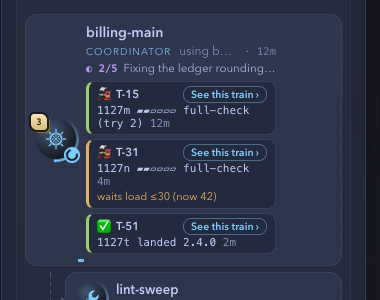
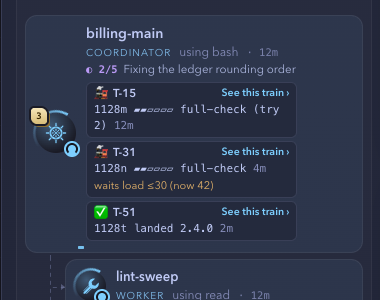
fix(gui): no card wears a one-sided border
The boss's rule (ui-design.md): a card or panel has one border on all
four sides, or none; a state shows through an icon, a badge, words in
its colour, or a tint, never a thicker or coloured side.

- Car cards: one hairline all round; the icon and the words carry the
  state (wait line gold, stale line amber, a returned or dropped car's
  line and reason red on a faint red tint). Tighter: the button floats
  top right as plain text and the head and the line share one line when
  they fit. Same rows, same 30-minute expiry.
- Ally unit, remote base's ended line, a run's live message, Storybook's
  notice: the stripe goes; the dot and tint, an amber tint in a faint
  amber hairline, a faint tint, the violet slip.
- Raven: the 4 px double rule on the top of every panel becomes the gold
  hairline all round; the dialog, tower card and question keep their
  state colour all round; the head band keeps Standard's gold hairline.
- tests/no-side-border.test.ts reads every GUI sheet and fails on a
  one-sided border, a border-width/-color/-style with unequal sides, or
  an inset shadow with an offset, unless the selector is a listed
  divider or control.
- docs/gui-car-card.png retaken from the demo build.

diff --git a/gui/style.css b/gui/style.css
@@ -1079,7 +1079,7 @@ html.paused *, html.paused *::before, html.paused *::after { animation-play-stat
 .base.remote .box-team { overflow-wrap: anywhere; } .base.remote .box-seen { color: var(--amber); white-space: normal; overflow-wrap: anywhere; }
 .base.remote[data-box="unreachable"] { opacity: 0.6; border-style: dashed; }
 .base.remote[data-box="ended"] > :not(header, .box-ended) { display: none; }
-.base.remote .box-ended { margin: 4px 0 0; padding: 8px 12px; border-left: 3px solid var(--amber); border-radius: 8px; background: color-mix(in srgb, var(--amber) 8%, transparent); font-size: 13px; overflow-wrap: anywhere; }
+.base.remote .box-ended { margin: 4px 0 0; padding: 8px 12px; border: 1px solid color-mix(in srgb, var(--amber) 30%, transparent); border-radius: 8px; background: color-mix(in srgb, var(--amber) 8%, transparent); font-size: 13px; overflow-wrap: anywhere; } /* the reason on an amber tint inside one hairline: no stripe */
 .base.remote > :is(.box-runs, .box-truns, .box-ally) { margin-top: 10px; border-top: 1px solid var(--line); padding-top: 2px; }
 :where(.base.remote .box-runs, .base.remote .box-truns, .base.remote .box-ally) > summary { min-height: 32px; } /* :where, so a phone's 44 px below wins whatever the order */
 .base.remote :is(.box-runs, .box-truns, .box-ally) > summary { display: flex; align-items: center; gap: 8px; cursor: pointer; list-style: none; font-size: 12px; color: var(--dim); }
@@ -1097,7 +1097,7 @@ html.paused *, html.paused *::before, html.paused *::after { animation-play-stat
 .ally-tab span { color: var(--dim); flex: none; }
 /* An unattended device's units (gui/allyunits.ts): the state in words with how long ago the box said it, the monitors on one line, the last report folded to its first line, and a crash's notice behind a fold. The state's colour is --c. */
 .ally-units { list-style: none; margin: 6px 0 0; padding: 0; display: grid; grid-template-columns: minmax(0, 1fr); gap: 8px; } .ally-units:empty { display: none; }
-.ally-unit { --c: var(--dim); display: grid; grid-template-columns: minmax(0, 1fr); gap: 6px; padding: 10px 12px; border: 1px solid var(--line); border-left: 3px solid var(--c); border-radius: 12px; background: color-mix(in srgb, var(--c) 7%, transparent); font-size: 13px; }
+.ally-unit { --c: var(--dim); display: grid; grid-template-columns: minmax(0, 1fr); gap: 6px; padding: 10px 12px; border: 1px solid var(--line); border-radius: 12px; background: color-mix(in srgb, var(--c) 7%, transparent); font-size: 13px; } /* the state is the dot, the word in --c and the tint: one hairline all round, no stripe (tests/no-side-border.test.ts) */
 .ally-unit [hidden] { display: none; }
 .ally-unit[data-tone="working"] { --c: var(--accent); } .ally-unit[data-tone="waiting"] { --c: var(--amber); } .ally-unit[data-tone="crashed"] { --c: var(--err); }
 .ally-unit.stale { opacity: 0.75; }
@@ -1483,15 +1483,19 @@ html:not([data-view="raven"])[data-calm] :is([data-slot], [data-slot] > i), html
    A step's state is a glyph and a colour, so colour is never the only sign (Geek turns the glyph into its text tag). The text in it is a model's: nothing here reads it as anything but text. */
 .pair-btn.yard-chip-btn { position: relative; z-index: 2; margin-top: 6px; text-transform: none; letter-spacing: 0.02em; color: var(--accent); border-color: color-mix(in srgb, var(--accent) 40%, transparent); }
 .yard-chip-btn[hidden], .yard-open[hidden], .yard-loose[hidden] { display: none; }
-/* A main's cars on its card (render.ts, docs/specs/2026-11-28-car-rows.md): one small card each, the ladder or the phase, the time, what it waits on, and the way to its train in the yard. */
-.cars { display: grid; gap: 4px; margin: 5px 0 0; padding: 0; list-style: none; } .cars[hidden] { display: none; }
-.car-card { position: relative; z-index: 2; display: grid; grid-template-columns: 1fr auto; gap: 1px 8px; padding: 4px 8px; border: 1px solid var(--line); border-left: 3px solid var(--accent); border-radius: 8px; background: color-mix(in srgb, var(--panel) 70%, transparent); font-size: 11.5px; }
-.car-card[data-tone="wait"] { border-left-color: var(--gold); } .car-card[data-tone="warn"] { border-left-color: var(--amber, var(--gold)); } .car-card[data-tone="bad"] { border-left-color: var(--err); } .car-card[data-tone="ok"] { border-left-color: var(--ok); }
-.car-head { grid-column: 1; grid-row: 1; display: flex; gap: 5px; align-items: baseline; min-width: 0; font-weight: 600; } .car-tickets { min-width: 0; overflow: hidden; white-space: nowrap; text-overflow: ellipsis; }
-.car-line { grid-column: 1 / -1; min-width: 0; overflow-wrap: anywhere; font: 11px var(--mono); } .car-time { color: var(--dim); }
-.car-wait { grid-column: 1 / -1; min-width: 0; overflow-wrap: anywhere; color: var(--gold); font-size: 11px; } .car-wait[hidden] { display: none; }
+/* A main's cars on its card (render.ts, docs/specs/2026-11-28-car-rows.md): one small card each, the ladder or the phase, the time, what it waits on, and the way to its train in the yard.
+   A card has one hairline all round (no stripe: ~/.pi/agent/rules/ui-design.md, tests/no-side-border.test.ts). Its state is its icon (✅ 🚂 🚉 ↩ ✖) and the colour of its words: a car that waits says so in gold, a stale one's line is amber,
+   a returned or dropped one's line and reason are red on a faint red tint. The button floats at the top right (it comes first in the markup) and the head and the line flow beside it as two unbroken pieces:
+   one line when they fit, the line under the head when they do not, so eight cars stay a short list. */
+.cars { display: grid; gap: 3px; margin: 5px 0 0; padding: 0; list-style: none; } .cars[hidden] { display: none; }
+.car-card { position: relative; z-index: 2; display: flow-root; padding: 2px 7px; border: 1px solid var(--line); border-radius: 6px; background: color-mix(in srgb, var(--panel) 70%, transparent); font-size: 11.5px; line-height: 1.5; }
+.car-card[data-tone="bad"] { background: color-mix(in srgb, var(--err) 8%, color-mix(in srgb, var(--panel) 70%, transparent)); }
+.car-head { display: inline-flex; gap: 5px; align-items: baseline; max-width: 100%; vertical-align: top; font-weight: 600; } .car-mark { flex: none; } .car-tickets { min-width: 0; overflow: hidden; white-space: nowrap; text-overflow: ellipsis; }
+.car-line { display: inline-block; max-width: 100%; vertical-align: top; overflow-wrap: anywhere; font: 11px/1.5 var(--mono); } .car-time { color: var(--dim); }
+.car-card[data-tone="warn"] .car-step { color: var(--amber, var(--gold)); } .car-card[data-tone="bad"] .car-step { color: var(--err-text, var(--err)); }
+.car-wait { display: block; min-width: 0; overflow-wrap: anywhere; color: var(--gold); font-size: 11px; } .car-wait[hidden] { display: none; }
 .car-card[data-tone="bad"] .car-wait { color: var(--err-text, var(--err)); }
-.car-see { grid-column: 2; grid-row: 1; align-self: center; padding: 0 7px; border: 1px solid color-mix(in srgb, var(--accent) 40%, transparent); border-radius: 8px; background: none; color: var(--accent); font: 600 10.5px var(--sans); cursor: pointer; white-space: nowrap; }
+.car-see { float: right; margin: 0 -4px 0 6px; padding: 0 4px; border: 0; border-radius: 6px; background: none; color: var(--accent); font: 600 10.5px/1.6 var(--sans); cursor: pointer; white-space: nowrap; } .car-see:hover { background: color-mix(in srgb, var(--accent) 12%, transparent); }
 .yard-row[data-focus] { outline: 2px solid var(--accent); outline-offset: 2px; }
 .yard-open { position: relative; z-index: 2; flex: none; margin-top: 4px; padding: 2px 9px; border: 1px solid color-mix(in srgb, var(--accent) 40%, transparent); border-radius: 8px; background: none; color: var(--accent); font: 600 12px var(--sans); cursor: pointer; }
 .yard-loose { --c: var(--accent); text-transform: none; letter-spacing: 0.02em; }
@@ -1578,7 +1582,7 @@ summary.yard-chip { display: inline-block; cursor: pointer; list-style: none; } 
 	.auto-back .auto-back-close { width: 100%; justify-content: center; }
 }
 /* Headless tower runs (docs/specs/2026-11-23-f-entry.md §2.8): the message a run writes now, after the log's last entry, and the dialogs its runs wait on, above the composer on this computer's page. */
-.tx.live { content-visibility: visible; border-left: 2px solid color-mix(in srgb, var(--accent) 50%, transparent); padding: 4px 0 4px 10px; } .tx.live .live-tag { color: var(--dim); font: 11px var(--mono); } .tx.live .live-text { margin: 2px 0 0; white-space: pre-wrap; overflow-wrap: anywhere; }
+.tx.live { content-visibility: visible; padding: 4px 10px; border-radius: 8px; background: color-mix(in srgb, var(--accent) 6%, transparent); } /* under way: its tag says so on a faint tint, no stripe */ .tx.live .live-tag { color: var(--dim); font: 11px var(--mono); } .tx.live .live-text { margin: 2px 0 0; white-space: pre-wrap; overflow-wrap: anywhere; }
 .run-dialogs { margin: 0 16px 8px; display: grid; gap: 8px; } .run-dialog { border: 1px solid var(--line); border-radius: 8px; padding: 8px 10px; background: var(--surface-1); } .run-dialog[data-approval] { border-color: color-mix(in srgb, var(--gold) 60%, var(--line)); }
 .run-dialog header { display: flex; gap: 8px; align-items: baseline; } .run-dialog-tag { color: var(--gold); font: 11px var(--mono); text-transform: uppercase; } .run-dialog-text { margin: 6px 0; white-space: pre-wrap; overflow-wrap: anywhere; max-height: 16em; overflow: auto; font: 12px var(--mono); }
 .run-dialog-acts { display: flex; flex-wrap: wrap; gap: 6px; align-items: center; } .run-dialog-input { flex: 1 1 12em; min-width: 0; } .run-dialog-note { margin: 0; color: var(--dim); font-size: 12px; } .run-dialog-note:empty { display: none; }

diff --git a/tests/no-side-border.test.ts b/tests/no-side-border.test.ts
@@ -1,0 +1,107 @@
+import assert from "node:assert/strict";
+import { readdirSync, readFileSync } from "node:fs";
+import { join, relative } from "node:path";
+import { test } from "node:test";
+import { fileURLToPath } from "node:url";
+import { declarations, scopedRulesOf, split } from "./css-rules.ts";
+
+// No card or panel of the page wears a stripe (boss, 2026-11-28, on the car cards: 「這居然是 single border card，我說過我超討厭這個設計」; his rule in ~/.pi/agent/rules/ui-design.md):
+// a card or panel has one border on all four sides, or none, and a state, a kind, or an emphasis shows through a badge, an icon, a heading, or a tint, never through a thicker or coloured border on one side.
+// Every sheet of the GUI (gui/*.css and each theme's) is read: a declaration that draws one side (border-left, border-top-color, border-inline-start, border-bottom-width, …), a border-width, -color or
+// -style whose sides differ, and an inset box-shadow with an offset (a stripe painted inside the box) fail, unless the selector is a divider or a control listed below with why it is not a card.
+
+const root = fileURLToPath(new URL("..", import.meta.url));
+const gui = join(root, "gui");
+const sheets = (readdirSync(gui, { recursive: true }) as string[]).filter((f) => f.endsWith(".css") && !f.split(/[\\/]/).includes("paraglide")).map((f) => join(gui, f)).sort();
+
+/** The selectors that may draw one side, each with why it is not a card. Keyed by the sheet (under gui/) and the selector part as css-rules.ts reads it (whitespace collapsed). */
+const ALLOWED: Record<string, string> = {
+	// Dividers: a hairline between two parts of one card, a column, a list, or a bar, not the edge of a card.
+	"style.css .devices": "the hairline above the device list inside the pairing panel",
+	"style.css .lan hr": "a rule between two parts of the Wi-Fi panel",
+	"style.css .todos-all": "the hairline above the folded checklist inside the todo box",
+	"style.css .picker-places": "the column divider between the places and the folders of the picker (a row divider on a phone)",
+	"style.css .pcol": "the divider between two folder columns of the picker",
+	"style.css .tower-notices .tnote + .tnote": "the hairline between two notes in a tower's list",
+	"style.css .tl-lanes": "the dashed time axis of the timeline",
+	"style.css .composer": "the hairline between the log and the composer",
+	"style.css .comms-in > .chat-root": "the hairline between the log and the composer inside the comms panel",
+	"style.css .drawer": "the inner edge of the drawer, flush with the screen on its other three sides",
+	"style.css .drawer-foot": "the hairline above the drawer's foot",
+	"style.css .base.remote > :is(.box-runs, .box-truns, .box-ally)": "the hairline above a remote base's folds, inside the base",
+	"style.css .ally-unit details": "the hairline above a unit's folded report, inside the unit",
+	"style.css .link-roster tr": "the row divider of the roster table on a phone",
+	"style.css .tx.conv-rule > div": "the rule that marks a new conversation in the log, a line with words",
+	"style.css .supply-barracks": "the column divider between the supply cells and the barracks",
+	"style.css .ask-full": "the dashed hairline above a question's full text, inside the question",
+	"style.css .yard-bar": "the hairline under the yard's toolbar",
+	"style.css .auto-back .auto-back-rest": "the hairline above the folded rest of the Auto mode report",
+	"themes/raven/raven.css html[data-view=\"raven\"] .supply-tray .supply-cells": "the gold rule under the supply cells in the tray, a divider",
+	// Shapes drawn with a border, not a card's edge.
+	"style.css .subs > .unit > .card::after": "the arrowhead of a sub's link line, a CSS triangle",
+	"style.css [data-mark=\"working\"] > .badge::after": "the spinner's open arc",
+	"style.css .connect-ring": "the connecting spinner's bright arc",
+	// Controls drawn as a key or an underlined field.
+	"style.css .pad-key": "a key of the on-screen keypad: its deeper bottom edge is the key's travel, a button, not a card",
+	"style.css .pad-key:active:not(:disabled)": "the pressed key",
+	"themes/geek/geek.css [data-view=\"geek\"] .pad-key": "Geek's flat key",
+};
+/** Zen's fields and buttons are a line under the words, the way Zen draws every input; the target button's inset line is the divider between it and the field beside it. */
+const ZEN_FIELDS = [".zen-company .composer textarea", ".zen-head-hint", ".zen-head-box", ".palette-box", ".target-btn", ".target-find", "#zen :is(.zen-card .ask-own, .composer textarea, .tcard-input, .palette-box):focus-visible", "#zen .zen-head-box:focus-visible", "#zen .target-btn:focus-visible", "#zen .target-find:focus-visible", ".target-find:focus-visible", ".palette-box:focus", ":is(.zen-card .ask-own, .composer textarea, .tcard-input)"];
+const zenField = (sheet: string, part: string) => (sheet === "zen.css" ? ZEN_FIELDS.find((f) => part === `[data-view="zen"] ${f}`) : undefined);
+
+const NONE = /^(0|0px|none|0 none|none 0|initial|unset)( !important)?$/;
+const SIDE = /^border-(top|right|bottom|left|inline|block|inline-start|inline-end|block-start|block-end)(-(width|color|style))?$/;
+/** Why a declaration draws one side, or undefined. */
+function sided(prop: string, value: string): string | undefined {
+	if (SIDE.test(prop)) return NONE.test(value) ? undefined : "draws one side";
+	if (/^border-(width|color|style)$/.test(prop)) {
+		const sides = split(value.replace(/\s*!important$/, ""), " ").filter(Boolean);
+		return new Set(sides).size > 1 ? "sets the sides differently" : undefined;
+	}
+	if (prop === "box-shadow") {
+		for (const layer of split(value, ",")) {
+			const words = layer.trim().split(/\s+(?![^(]*\))/);
+			if (!words.includes("inset")) continue;
+			const lengths = words.filter((w) => /^-?[\d.]+(px|em|rem)?$/.test(w));
+			if (lengths.slice(0, 2).some((l) => Number.parseFloat(l) !== 0)) return "paints a stripe inside the box (an inset shadow with an offset)";
+		}
+	}
+	return undefined;
+}
+
+function offenders() {
+	const out: string[] = [];
+	const used = new Set<string>();
+	for (const file of sheets) {
+		const sheet = relative(gui, file).split("\\").join("/");
+		for (const rule of scopedRulesOf(readFileSync(file, "utf8"))) {
+			for (const [prop, value] of declarations(rule.body)) {
+				const why = sided(prop, value);
+				if (!why) continue;
+				for (const part of rule.parts) {
+					const key = `${sheet} ${part}`;
+					const zen = zenField(sheet, part);
+					if (key in ALLOWED || zen) { used.add(zen ? `zen ${zen}` : key); continue; }
+					out.push(`${key} { ${prop}: ${value} } ${why}`);
+				}
+			}
+		}
+	}
+	return { out, used };
+}
+
+test("no card or panel in any sheet of the GUI draws a border on one side: a uniform border, or none", () => {
+	assert.ok(sheets.some((f) => f.endsWith("style.css")) && sheets.some((f) => f.includes("storybook")), "the sheets are found");
+	assert.deepEqual(offenders().out, []);
+});
+
+test("each allowed selector still draws its one side: a divider that went away leaves the list", () => {
+	const { used } = offenders();
+	assert.deepEqual([...Object.keys(ALLOWED), ...ZEN_FIELDS.map((f) => `zen ${f}`)].filter((k) => !used.has(k)), []);
+});
+
+test("the reader catches a stripe in each of its forms, and passes a uniform border, a reset, and a ring", () => {
+	for (const [p, v] of [["border-left", "3px solid var(--c)"], ["border-inline-start", "2px solid red"], ["border-top-color", "var(--gold)"], ["border-bottom-width", "3px"], ["border-width", "1px 1px 1px 3px"], ["border-color", "var(--line) var(--line) var(--line) var(--err)"], ["box-shadow", "0 2px 4px #000, inset 3px 0 0 var(--accent)"]] as const) assert.ok(sided(p, v), `${p}: ${v}`);
+	for (const [p, v] of [["border", "1px solid var(--line)"], ["border-left", "0"], ["border-inline", "0"], ["border-width", "1px"], ["border-color", "var(--line)"], ["box-shadow", "inset 0 0 0 1px var(--c)"], ["box-shadow", "0 18px 40px #000, inset 0 0 0 999px rgb(0 0 0 / 4%)"]] as const) assert.equal(sided(p, v), undefined, `${p}: ${v}`);
+});

diff --git a/gui/themes/raven/raven.css b/gui/themes/raven/raven.css
@@ -63,8 +63,8 @@
 [data-view="raven"] [data-mark] { --c1: color-mix(in srgb, var(--c) 13%, transparent); }
 [data-view="raven"] ::selection { background: color-mix(in srgb, var(--accent) 38%, transparent); color: var(--text); }
 
-/* The head band on the map is the keep: a crenellated edge on a squared tower, the name in the serif. */
-[data-view="raven"] .head-node { border-top: 4px double color-mix(in srgb, var(--gold) 55%, var(--line)); background: linear-gradient(180deg, color-mix(in srgb, var(--gold) 9%, transparent), transparent 70%), var(--surface-0); }
+/* The head band on the map is the keep: a squared tower in Standard's gold hairline all round, a gold glow from the top, the name in the serif. */
+[data-view="raven"] .head-node { background: linear-gradient(180deg, color-mix(in srgb, var(--gold) 9%, transparent), transparent 70%), var(--surface-0); }
 [data-view="raven"] .head-node .head-name { font-family: var(--serif); font-size: 15px; letter-spacing: 0.06em; }
 /* The head page's backdrop (the castle above the mist, the crypt gate): fixed layers behind the page, each in the illustration's frame. The page's panels keep their translucent well, so the picture shows through and the text keeps its ground.
    The picture rests in the dark (boss, 2026-11-07: the shadows blacker, the picture lit only by the lightning): a near-black veil over all of it but the moon, so only the moon, the lit windows and lanterns, and the rim lights read. --rk-bolt (0 at rest, 1 at a flash) takes that veil away from the sky down and lays a faint violet wash; the perched raven below takes the same light as a brightness. */
@@ -425,7 +425,7 @@ html[data-view="raven"] .connect:is([data-state="offline"], [data-state="replace
 	html[data-view="raven"] .tower[data-mark="working"] > .pulse, html[data-view="raven"] .plate[data-mark="working"]::after { display: none; }
 }
 /* The yard (gui/yard.ts): the keep's ledger of night trains. The sheet takes the keep's panel, titles are serif, the rows are plain bordered cards, and the pills are candle-gold when they wait and crimson when they failed (the tokens above). */
-[data-view="raven"] dialog.sheet.yard { background: #181220; border-color: var(--line); border-top-color: var(--rk-rule); } /* the panel colour with no alpha: --panel lets the page behind the sheet ghost through its text */
+[data-view="raven"] dialog.sheet.yard { background: #181220; } /* the panel colour with no alpha: --panel lets the page behind the sheet ghost through its text */
 [data-view="raven"] :is(.yard-title, .yard-code) { font-family: var(--serif); letter-spacing: 0.04em; } [data-view="raven"] .yard-row { background: var(--surface-0); }
 
 /* Square corners and the keep's two ornaments (boss, 2026-11-08, round 2: 「不該用圓角卡片，並且可以考慮簡易裝飾線」). No card, panel, bar, tile, pill, button, field, or sheet of the Raven view has a rounded corner: three blanket rules (elements, ::before, ::after) set the radius to 0 !important under
@@ -435,11 +435,13 @@ html[data-view="raven"] :not(.plate, .tower, .sweep, .pulse, .ring, .badge, .con
 html[data-view="raven"] :not(.plate, .tower, .sweep, .pulse, .ring, .badge, .connect-ring, .packet, .ava, .portrait, .au-dot, .au-mdot, .link i, .head-btn .dot, .tl-mark:is([data-mark="done"], .joined, .left), .tog, .drawer-head .name, .bar-more[data-news])::before { border-radius: 0 !important; }
 html[data-view="raven"] :not(.plate, .tower, .sweep, .pulse, .ring, .badge, .connect-ring, .packet, .ava, .portrait, .au-dot, .au-mdot, .link i, .head-btn .dot, .tl-mark:is([data-mark="done"], .joined, .left), .tog, .drawer-head .name, .bar-more[data-news])::after { border-radius: 0 !important; }
 html[data-view="raven"] .plate[data-docs]::before { border-radius: 0; }
-/* Ornament one, a double rule (a line, a gap of two, a line: 4 px, the head band's own) in candle gold on the top edge of each panel; the head band has worn it since the first round. Ornament two, four corner ticks (8 px arms, 1 px, 6 px in from the edge) on the cards that ask for an answer: a sheet, the dock's dialog, the tower card, and a unit's question.
-   Both are the one gold-grey line colour, they take no space beyond the rule's 3 px, and no press. The ticks are background layers of the box itself, not a pseudo-element: a box that scrolls (the dialog, the tower card, a long question) keeps them in its corners, and nothing is positioned (a modal dialog sits in the top layer, where `position: relative` would put it against the document).
-   A question nested in a framed parent (the dock's dialog, a link alert) wears neither, and the yard (no padding: a tick would land on Close) only the rule. */
+/* Ornament one, the candle-gold hairline all round each panel (the HUD, a base, the comms, a settings group, a panel, a sheet). It was a 4 px double rule on the top edge until 2026-11-28, when the boss's rule took
+   every one-sided border off the cards (~/.pi/agent/rules/ui-design.md: one border on all four sides or none; tests/no-side-border.test.ts). The cards whose border says a state (the dock's dialog and the tower card in --c, a unit's
+   question in amber) keep their own colour. Ornament two, four corner ticks (8 px arms, 1 px, 6 px in from the edge) on the cards that ask for an answer: a sheet, the dock's dialog, the tower card, and a unit's question.
+   Both are the one gold-grey line colour, they take no space, and no press. The ticks are background layers of the box itself, not a pseudo-element: a box that scrolls (the dialog, the tower card, a long question) keeps them in its corners, and nothing is positioned (a modal dialog sits in the top layer, where `position: relative` would put it against the document).
+   A question nested in a framed parent (the dock's dialog, a link alert) wears no ticks, and the yard (no padding: a tick would land on Close) only the hairline. */
 html[data-view="raven"] { --rk-rule: color-mix(in srgb, var(--gold) 50%, var(--line-c)); --rk-tick: linear-gradient(var(--rk-rule), var(--rk-rule)); --rk-ticks: var(--rk-tick), var(--rk-tick), var(--rk-tick), var(--rk-tick), var(--rk-tick), var(--rk-tick), var(--rk-tick), var(--rk-tick); --rk-tick-at: left 6px top 6px, left 6px top 6px, right 6px top 6px, right 6px top 6px, left 6px bottom 6px, left 6px bottom 6px, right 6px bottom 6px, right 6px bottom 6px; --rk-tick-size: 8px 1px, 1px 8px, 8px 1px, 1px 8px, 8px 1px, 1px 8px, 8px 1px, 1px 8px; }
-html[data-view="raven"] .hud, html[data-view="raven"] .base, html[data-view="raven"] .comms-in, html[data-view="raven"] .set-group, html[data-view="raven"] .panel, html[data-view="raven"] dialog.sheet, html[data-view="raven"] .dialog, html[data-view="raven"] .tcard, html[data-view="raven"] .ask:not(.dialog .ask, .link-alert .ask, .tcard .ask, .tower-notices .ask, .auto-back .ask) { border-top: 4px double var(--rk-rule); }
+html[data-view="raven"] .hud, html[data-view="raven"] .base, html[data-view="raven"] .comms-in, html[data-view="raven"] .set-group, html[data-view="raven"] .panel, html[data-view="raven"] dialog.sheet { border-color: var(--rk-rule); }
 html[data-view="raven"] dialog.sheet:not(.yard), html[data-view="raven"] .ask:not(.dialog .ask, .link-alert .ask, .tcard .ask, .tower-notices .ask, .auto-back .ask) { background-image: var(--rk-ticks); background-position: var(--rk-tick-at); background-size: var(--rk-tick-size); background-repeat: no-repeat; }
 html[data-view="raven"] .dialog, html[data-view="raven"] .tcard { background-image: var(--rk-ticks), linear-gradient(var(--c1), var(--surface-0) 70%); background-position: var(--rk-tick-at), 0 0; background-size: var(--rk-tick-size), auto; background-repeat: no-repeat; } /* over the gradient Standard paints on them */
 

diff --git a/tests/raven-square.test.ts b/tests/raven-square.test.ts
@@ -5,7 +5,8 @@ import { test } from "node:test";
 import { fileURLToPath } from "node:url";
 import { declarations, rulesOf, split } from "./css-rules.ts";
 
-// Raven Keep round 2 (boss, 2026-11-08: 「不該用圓角卡片，並且可以考慮簡易裝飾線」): in the Raven view every card-like box has square corners, and a gold double rule and corner ticks are the keep's only ornaments.
+// Raven Keep round 2 (boss, 2026-11-08: 「不該用圓角卡片，並且可以考慮簡易裝飾線」): in the Raven view every card-like box has square corners, and a gold hairline and corner ticks are the keep's only ornaments.
+// The hairline goes all round (boss, 2026-11-28: no card wears a one-sided border, ~/.pi/agent/rules/ui-design.md); it was a 4 px double rule on the top edge before.
 // One blanket rule squares everything under `html[data-view="raven"]` except the keep-round set below, which is round by meaning (a ring, a dot, a halo). The test pins that set, so a new round exception needs a change here too.
 const root = fileURLToPath(new URL("..", import.meta.url));
 const raven = readFileSync(join(root, "gui/themes/raven/raven.css"), "utf8");
@@ -53,17 +54,17 @@ test("the head band, the legend, the crumbs, and the yard's rows and pills have 
 
 /** The subject (the last compound, without its pseudo-element) of each part of a selector. */
 const subjects = (selector: string) => split(selector, ",").map((p) => p.trim().replace(/::[\w-]+$/, "").split(/\s+(?![^(]*\))|\s*[>+~]\s*(?![^(]*\))/).pop()!);
-const tops = () => rules.find((r) => r.parts.includes('html[data-view="raven"] .base') && declarations(r.body).some(([p]) => p === "border-top"))!;
+const frames = () => rules.find((r) => r.parts.includes('html[data-view="raven"] .base') && declarations(r.body).some(([p]) => p === "border-color"))!;
 /** The rules whose declarations include `prop`, with their parts. */
 const setting = (prop: string, from = rules) => from.filter((r) => declarations(r.body).some(([p]) => p === prop));
 const ticksRules = () => setting("background-image").filter((r) => /var\(--rk-ticks\)/.test(r.body));
 
-test("the keep's ornament is a gold double rule on top of its panels", () => {
-	const top = tops();
-	assert.ok(top, "a rule gives the base a border-top");
-	assert.match(declarations(top.body).find(([p]) => p === "border-top")![1], /^4px double /, "a double rule, 4px wide (a line, a gap of two, a line), as the head band wears it");
-	for (const sel of ["dialog.sheet", ".dialog", ".tcard", ".hud", ".set-group", ".panel", ".comms-in"]) assert.ok(top.parts.some((p) => p.endsWith(sel)), `${sel} has the double rule`);
-	assert.ok(top.parts.some((p) => /\.ask:not\(/.test(p)), "the question card has it, unless nested");
+test("the keep's ornament is a gold hairline all round its plain panels; a card whose border says a state keeps its colour", () => {
+	const frame = frames();
+	assert.ok(frame, "a rule colours the base's border");
+	assert.deepEqual(declarations(frame.body), [["border-color", "var(--rk-rule)"]], "the colour only: each panel keeps its 1 px width and its style (a remote base that cannot be reached stays dashed)");
+	for (const sel of ["dialog.sheet", ".hud", ".set-group", ".panel", ".comms-in", ".base"]) assert.ok(frame.parts.some((p) => p.endsWith(sel)), `${sel} has the gold hairline`);
+	for (const sel of [".dialog", ".tcard", ".ask"]) assert.ok(!frame.parts.some((p) => p.includes(sel)), `${sel} keeps its own border colour (its state)`);
 });
 
 test("RS-F001: no Raven rule sets `position` on a dialog or a sheet: a modal dialog sits in the top layer, where `relative` computes to absolute against the document and the sheet opens above a scrolled page", () => {
@@ -71,11 +72,7 @@ test("RS-F001: no Raven rule sets `position` on a dialog or a sheet: a modal dia
 	assert.deepEqual(bad.map((r) => r.selector), []);
 });
 
-test("RS-F003: an ask nested in a framed parent (the dock's .dialog, a .link-alert) has no rule and no ticks of its own", () => {
-	const top = tops();
-	const ask = top.parts.find((p) => /\.ask:not\(/.test(p))!;
-	assert.match(ask, /:not\([^)]*\.dialog \.ask[^)]*\)/);
-	assert.match(ask, /:not\([^)]*\.link-alert \.ask[^)]*\)/);
+test("RS-F003: an ask nested in a framed parent (the dock's .dialog, a .link-alert) has no ticks of its own", () => {
 	for (const rule of ticksRules()) for (const part of rule.parts.filter((p) => /\.ask\b/.test(p))) {
 		assert.match(part, /:not\([^)]*\.dialog \.ask[^)]*\)/, part);
 		assert.match(part, /:not\([^)]*\.link-alert \.ask[^)]*\)/, part);
@@ -108,10 +105,9 @@ test("RS-F004: the corner ticks are background layers of the box itself, not a p
 	assert.match(declarations(own.body).find(([p]) => p === "background-size")![1], /^var\(--rk-tick-size\), auto$/);
 });
 
-test("RS-F005: the yard has the keep's gold rule on top (its own border colour must not beat it) and no ticks (it has no padding: a tick would land on Close)", () => {
+test("RS-F005: the yard has the keep's gold hairline (no border colour of its own beats the sheets') and no ticks (it has no padding: a tick would land on Close)", () => {
 	const yard = rules.find((r) => r.parts.includes('[data-view="raven"] dialog.sheet.yard'))!;
-	const dd = declarations(yard.body);
-	assert.equal(dd.find(([p]) => p === "border-top-color")?.[1], "var(--rk-rule)");
-	assert.ok(dd.findIndex(([p]) => p === "border-top-color") > dd.findIndex(([p]) => p === "border-color"), "after border-color, which sets all four");
+	assert.deepEqual(declarations(yard.body).filter(([p]) => p.startsWith("border")), []);
+	assert.ok(frames().parts.includes('html[data-view="raven"] dialog.sheet'), "the sheets' hairline reaches the yard");
 	for (const r of ticksRules()) for (const p of r.parts.filter((x) => x.includes("dialog.sheet"))) assert.match(p, /:not\(\.yard\)/, p);
 });

diff --git a/tests/wait-card-gui.test.ts b/tests/wait-card-gui.test.ts
@@ -553,10 +553,10 @@ test("a part is clamped to three lines by the standard property as well as the p
 	assert.doesNotMatch(zen, /\.wait-card \.wc-(opt|primary)/, "Zen draws the card's acts as the question panel's rows, not a skin of its own");
 });
 
-test("Raven's ornaments (the double rule and the ticks) stay off a card nested in the tower card, the tower's notices, and the return panel: one rule, not two", () => {
+test("Raven's ticks stay off a card nested in the tower card, the tower's notices, and the return panel: one set of corners, not two (the question card has no rule of its own since 2026-11-28: it keeps its amber hairline all round)", () => {
 	const raven = readFileSync(new URL("../gui/themes/raven/raven.css", import.meta.url), "utf8");
 	const lines = raven.split("\n").filter((l) => l.includes('html[data-view="raven"] .ask:not('));
-	assert.equal(lines.length, 2, "the rule's border and its ticks");
+	assert.equal(lines.length, 1, "its ticks");
 	for (const line of lines) for (const host of [".dialog .ask", ".link-alert .ask", ".tcard .ask", ".tower-notices .ask", ".auto-back .ask"]) assert.ok(line.includes(host), `${host} is excluded`);
 	assert.doesNotMatch(css + zen, /\.wait-card \.wc-(btn|opt|primary|state|fail|acts)\b/, "the old look rules are gone: the card wears the panel's");
 });

diff --git a/gui/themes/storybook/storybook.css b/gui/themes/storybook/storybook.css
@@ -225,7 +225,7 @@ html[data-view="storybook"] body { background: var(--sb-grain), radial-gradient(
 /* a message that came in is a violet slip; its stamp sits in the margin like a speaker's */
 [data-view="storybook"] .tx.sys { padding-left: 60px; }
 [data-view="storybook"] .tx.sys:has(> .notice) { position: relative; min-height: 46px; } /* the stamp's room: an entry clips its paint (content-visibility) */
-[data-view="storybook"] .notice { max-width: 520px; border: 0; border-image: none; border-left: 3px solid color-mix(in srgb, var(--violet) 60%, transparent); border-radius: 8px; background: var(--sb-slip); }
+[data-view="storybook"] .notice { max-width: 520px; border: 0; border-image: none; border-radius: 8px; background: var(--sb-slip); } /* the violet slip and its stamp say who wrote it: no stripe */
 [data-view="storybook"] .notice > summary > .ava { position: absolute; left: 0; top: 0; color: var(--violet); }
 /* a tool call is a small label sticker while closed; open, it is the framed slip it was */
 [data-view="storybook"] .act { border: 1px solid transparent; border-image: var(--sb-frame) 28 / 10px round; background: color-mix(in srgb, var(--surface-0) 75%, transparent); }

diff --git a/gui/render.ts b/gui/render.ts
@@ -203,7 +203,7 @@ export function fillUnit(el: HTMLElement, u: Omit<Unit, "id" | "key" | "control"
 	sync(el.querySelector(".subs")!, u.subs ?? [], unitEl, fillUnit);
 }
 
-const carEl = () => html(`<li class="car-card"><span class="car-head"><b class="car-mark"></b><span class="car-tickets"></span></span><span class="car-line"><span class="car-step"></span> <span class="car-time"></span></span><span class="car-wait"></span><button type="button" class="car-see"></button></li>`);
+const carEl = () => html(`<li class="car-card"><button type="button" class="car-see"></button><span class="car-head"><b class="car-mark"></b><span class="car-tickets"></span></span> <span class="car-line"><span class="car-step"></span> <span class="car-time"></span></span><span class="car-wait"></span></li>`); // the button first: it floats at the card's top right and the car's words flow beside it, one line when they fit (style.css `.car-card`)
 function fillCar(el: HTMLElement, c: CarCardView) {
 	el.dataset.tone = c.tone;
 	text(el, ".car-mark", c.mark);
